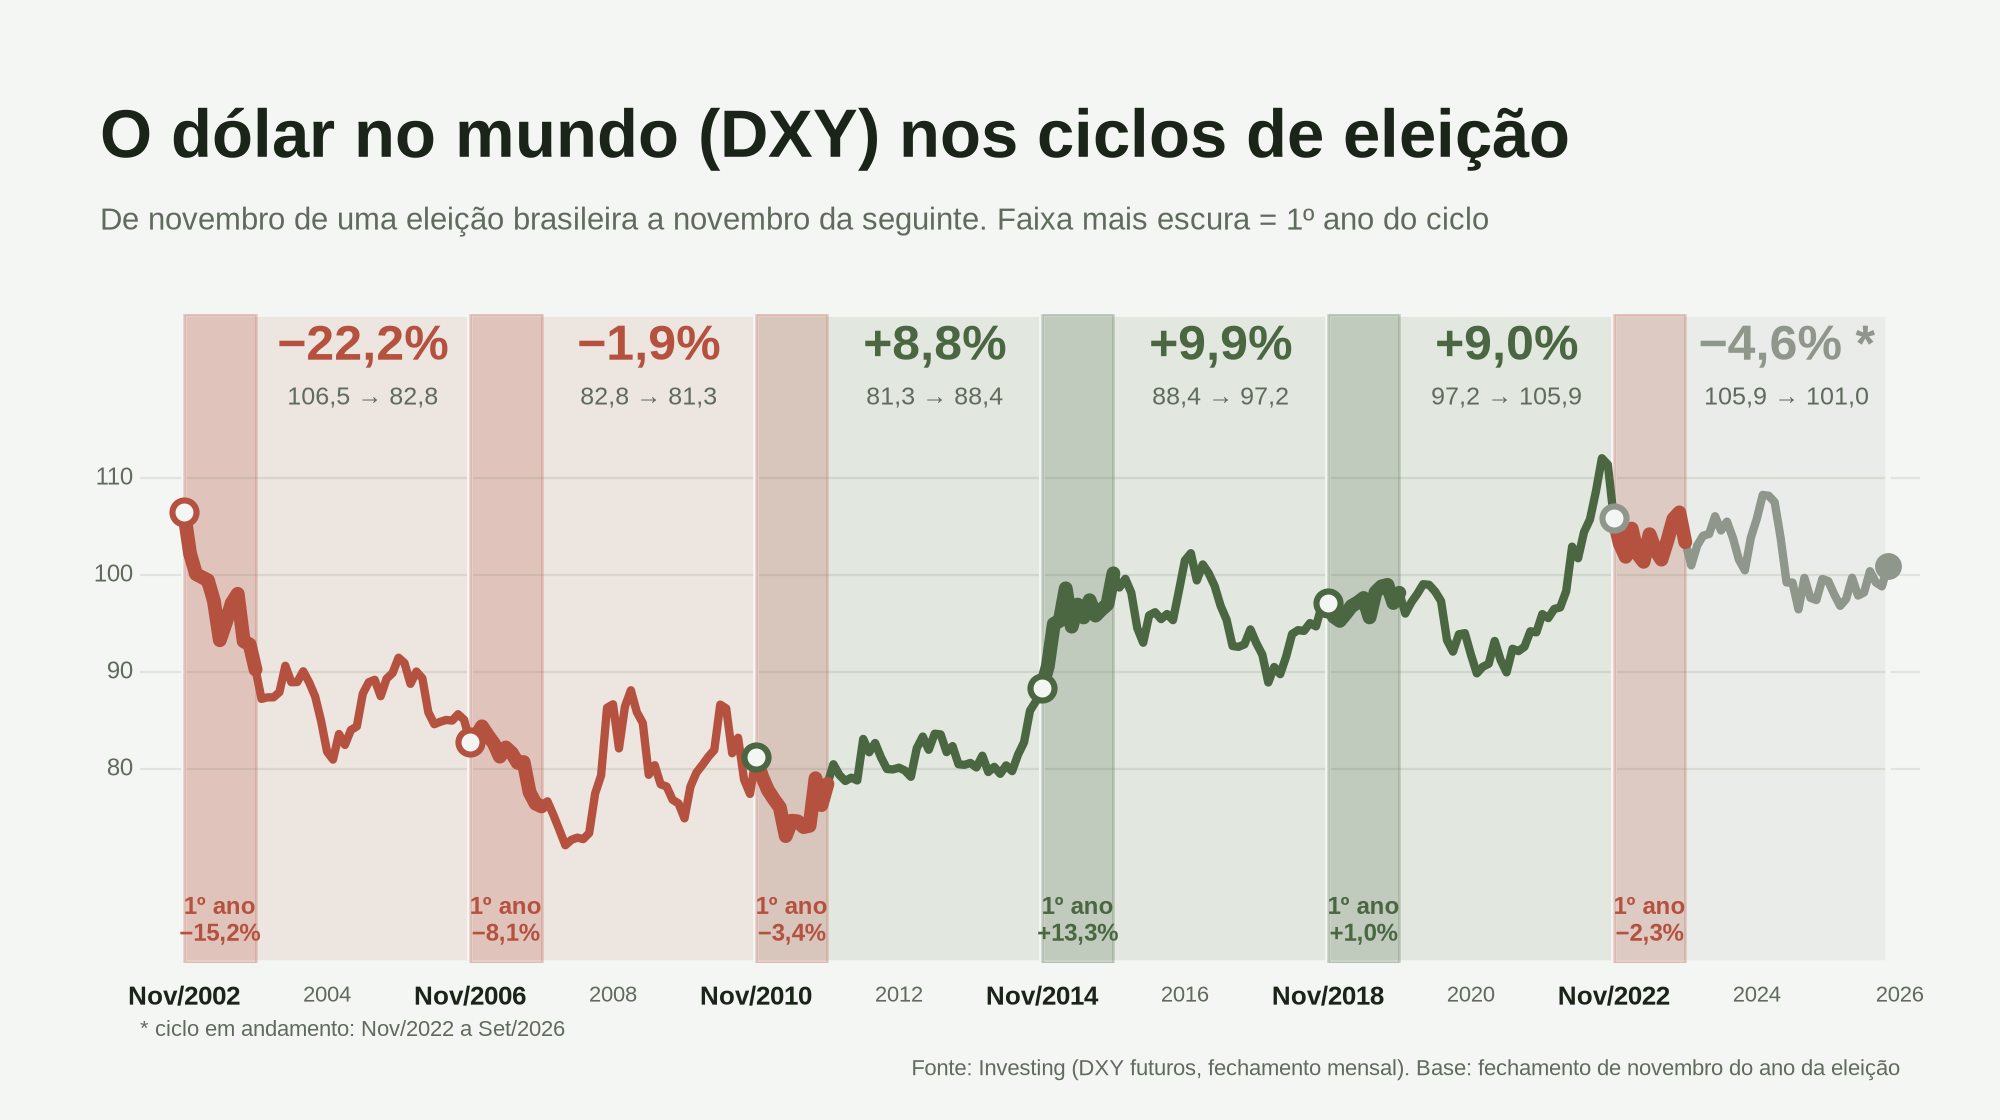
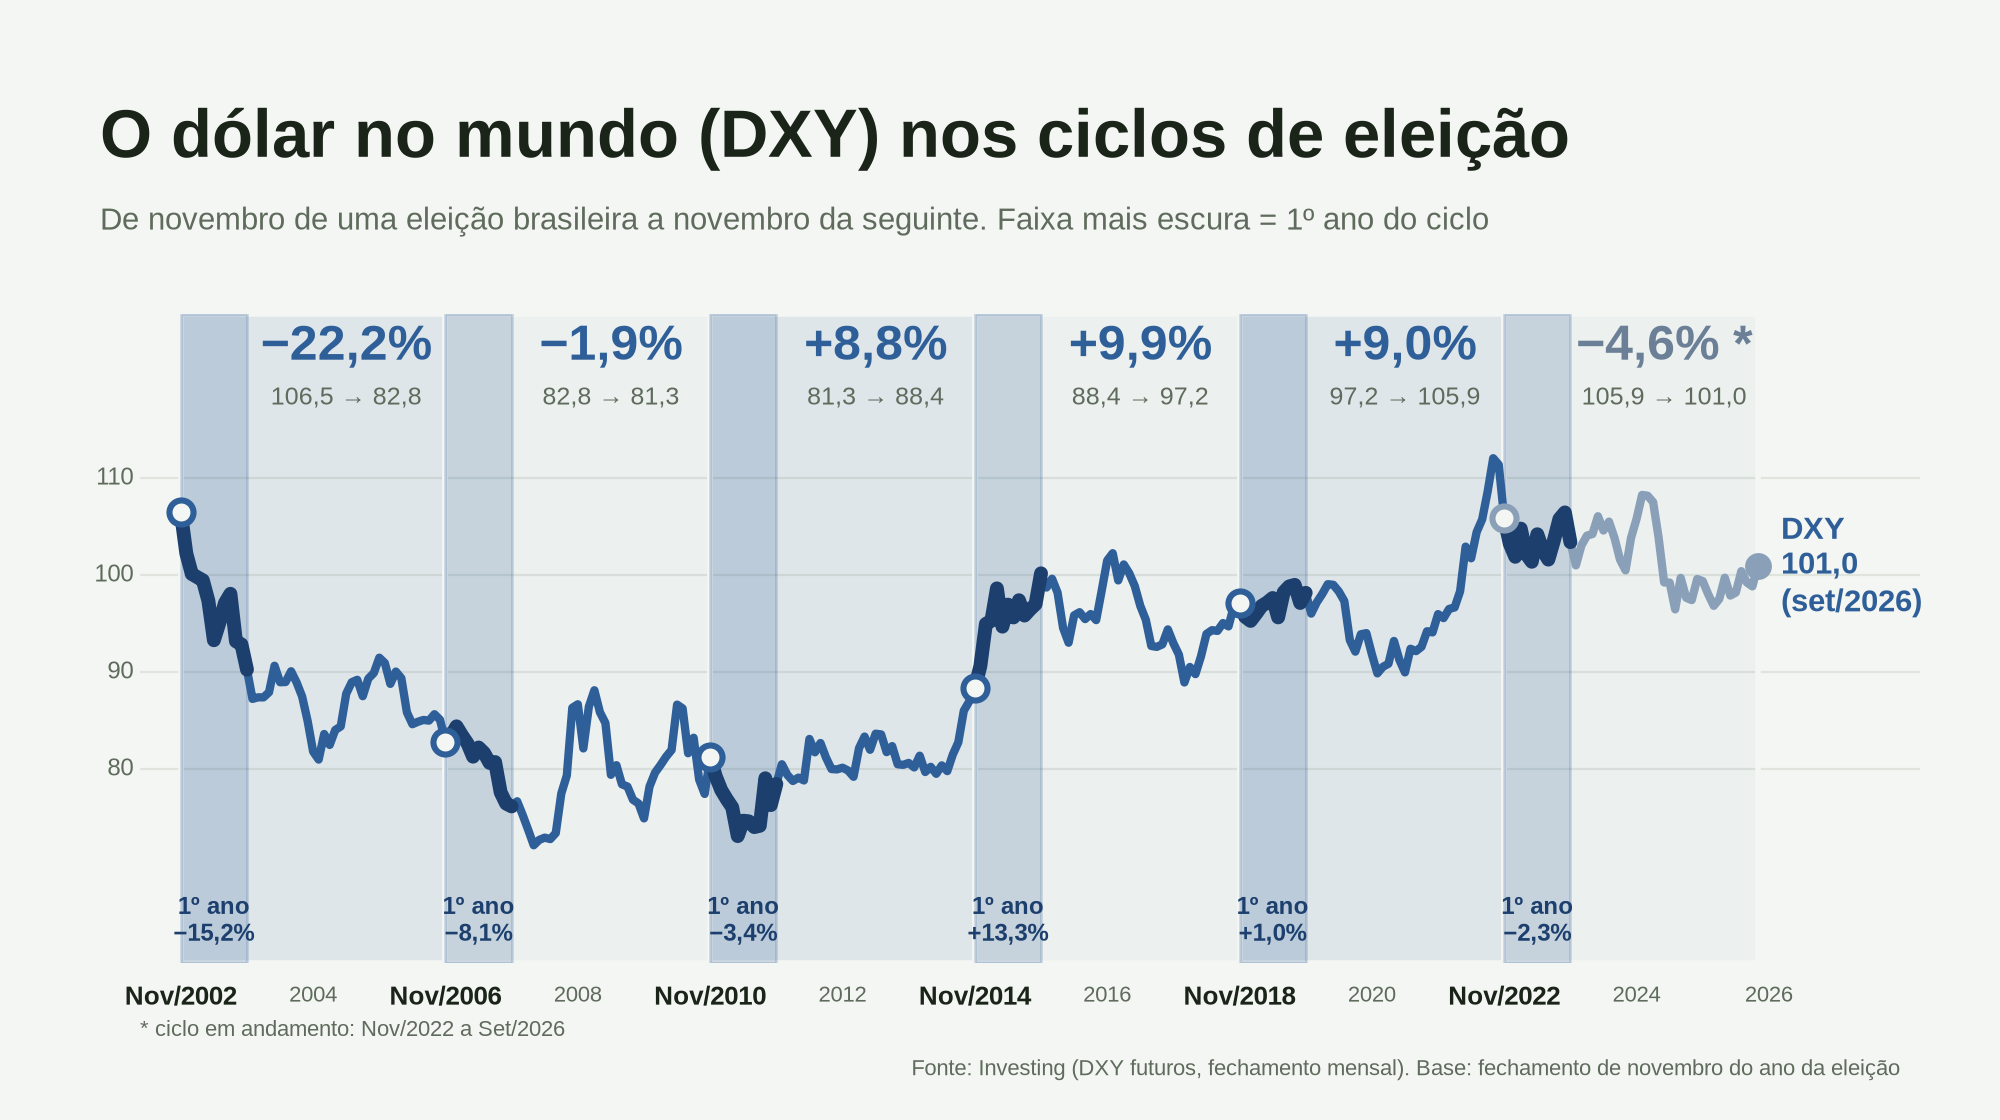
DXY em azul com rótulo no final do gráfico
Claude-Session: https://claude.ai/code/session_0199Y78iJYXbJq94ojXAjU9F

Changed region(s): [[0.062, 0.2812, 0.961, 0.9062], [0.93, 0.875, 0.961, 0.9062], [0.868, 0.875, 0.899, 0.9062]]

diff --git a/graficos_nov_a_nov.py b/graficos_nov_a_nov.py
@@ -160,7 +160,7 @@ fig = plt.figure(figsize=(10, 5.6), dpi=200, facecolor=BG)
 fig.text(.05, .86, "O dólar no mundo (DXY) nos ciclos de eleição", color=INK, fontsize=24, fontweight="bold")
 fig.text(.05, .795, "De novembro de uma eleição brasileira a novembro da seguinte. Faixa mais escura = 1º ano do ciclo", color=MUTED, fontsize=11)
 ax = fig.add_axes([.07, .14, .89, .58], facecolor=BG)
-ax.set_xlim(2002.3, 2027.2); ax.set_ylim(60, 127)
+ax.set_xlim(2002.3, 2029.2); ax.set_ylim(60, 127)
 for v in (80, 90, 100, 110):
     ax.axhline(v, color=GRID, lw=.8, zorder=0); ax.text(2002.2, v, str(v), ha="right", va="center", fontsize=8.5, color=MUTED)
 ax.set_yticks([])
@@ -171,22 +171,24 @@ ax.set_xticklabels([f"Nov/{y}" if y in ELEICOES else str(y) for y in anos_t], fo
 for lab, y in zip(ax.get_xticklabels(), anos_t):
     if y in ELEICOES: lab.set_color(INK); lab.set_fontweight("bold"); lab.set_fontsize(9.5)
 ax.tick_params(axis="x", length=0, pad=8)
-for e in ELEICOES:
+DB, DB2, DBG = "#2f5f99", "#1c3f6e", "#8aa0b8"   # azul DXY: linha, 1º ano (mais escuro), parcial
+for i, e in enumerate(ELEICOES):
     a, b = ciclo[e]; v = dvar(a, b); parcial = e == 2022
-    c = GREY if parcial else cor(v)
-    u1 = um[e]; v1 = dvar(*u1); c1 = cor(v1)
-    ax.axvspan(xm(a), xm(b), color=tint(c, .10), ec=BG, lw=2, zorder=0)
-    ax.axvspan(xm(u1[0]), xm(u1[1]), ymax=1, color=tint(c1, .22), zorder=0)
+    c = DBG if parcial else DB
+    u1 = um[e]; v1 = dvar(*u1)
+    ax.axvspan(xm(a), xm(b), color=tint(DB, .10 if i % 2 == 0 else .04), ec=BG, lw=2, zorder=0)
+    ax.axvspan(xm(u1[0]), xm(u1[1]), color=tint(DB, .20), zorder=0)
     ks = [k for k in dsk if a <= k <= b]
     ax.plot([xm(k) for k in ks], [dxy[k] for k in ks], color=c, lw=3, solid_capstyle="round", zorder=3)
     k1 = [k for k in dsk if u1[0] <= k <= u1[1]]
-    ax.plot([xm(k) for k in k1], [dxy[k] for k in k1], color=c1, lw=5, solid_capstyle="round", zorder=4)
+    ax.plot([xm(k) for k in k1], [dxy[k] for k in k1], color=DB2, lw=5, solid_capstyle="round", zorder=4)
     ax.scatter([xm(a)], [dxy[a]], s=75, color=BG, edgecolor=c, lw=2.2, zorder=5)
     ax.scatter([xm(b)], [dxy[b]], s=75, color=c, zorder=5)
     m = (xm(u1[1]) + xm(b)) / 2
-    ax.text(m, 126, rot(v) + (" *" if parcial else ""), ha="center", va="top", fontsize=18, fontweight="bold", color=c)
+    ax.text(m, 126, rot(v) + (" *" if parcial else ""), ha="center", va="top", fontsize=18, fontweight="bold", color=c if not parcial else "#6b7f96")
     ax.text(m, 119.5, f"{dxy[a]:.1f} → {dxy[b]:.1f}".replace(".", ","), ha="center", va="top", fontsize=9, color=MUTED)
-    ax.text((xm(u1[0]) + xm(u1[1])) / 2, 61.5, f"1º ano\n{rot(v1)}", ha="center", va="bottom", fontsize=8.5, fontweight="bold", color=c1, linespacing=1.3)
+    ax.text((xm(u1[0]) + xm(u1[1])) / 2, 61.5, f"1º ano\n{rot(v1)}", ha="center", va="bottom", fontsize=8.5, fontweight="bold", color=DB2, linespacing=1.3)
+ax.text(xm(HOJE) + .35, dxy[HOJE], f"DXY\n{dxy[HOJE]:.1f}".replace(".", ",") + "\n(set/2026)", ha="left", va="center", fontsize=11, fontweight="bold", color=DB, linespacing=1.3)
 fig.text(.07, .075, "* ciclo em andamento: Nov/2022 a Set/2026", color=MUTED, fontsize=8)
 fig.text(.95, .04, "Fonte: Investing (DXY futuros, fechamento mensal). Base: fechamento de novembro do ano da eleição", color=MUTED, fontsize=8, ha="right")
 fig.savefig("grafico_dxy_nov_a_nov.png", facecolor=BG); plt.close(fig)
